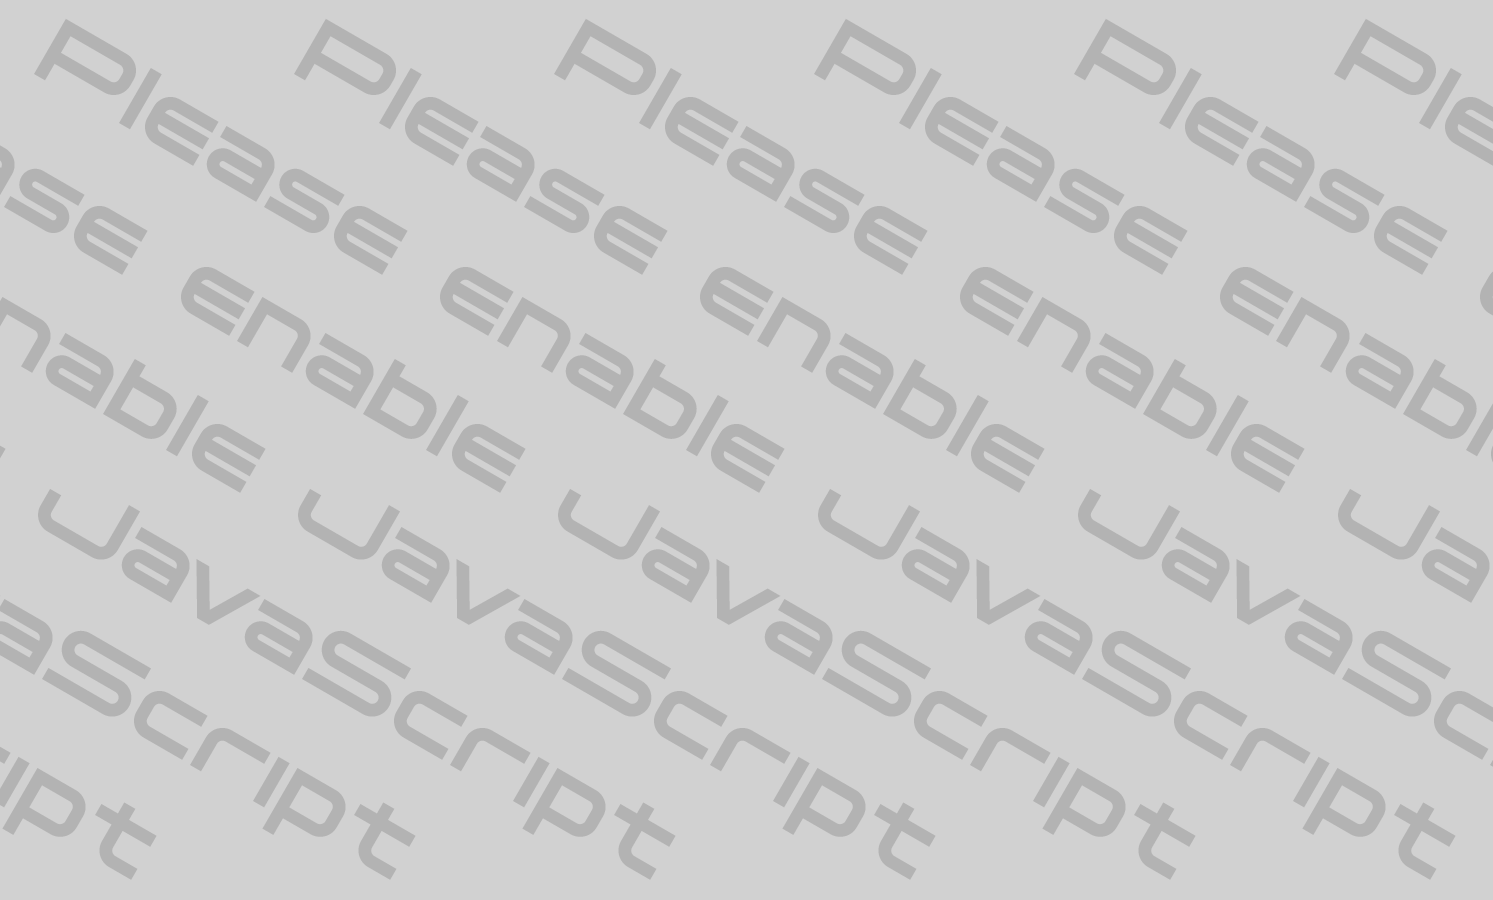
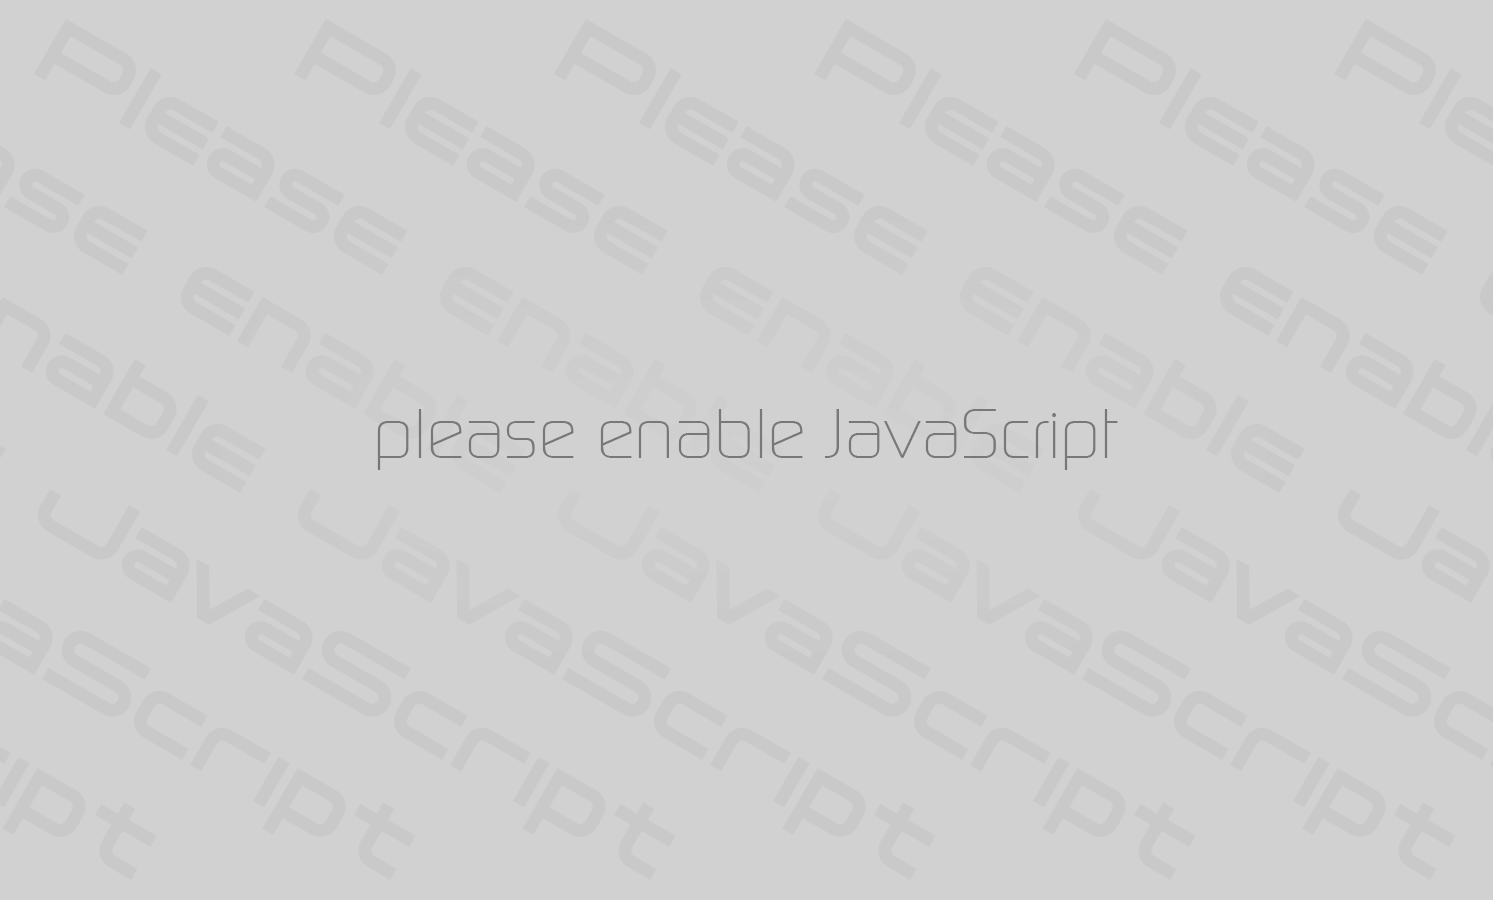
slight updates
-Removed periods from "B.S."
-Updated "Please enable javascript" slide image to be more explicit

diff --git a/index.html b/index.html
@@ -76,7 +76,7 @@
 				
 				<!-- Right side of header -->
 				<div id="headerR"><!-- Description -->
-					<span id="description">Drexel&nbsp;University Class&nbsp;of&nbsp;2019&nbsp;| B.S.&nbsp;Computer&nbsp;Science</span>
+					<span id="description">Drexel&nbsp;University Class&nbsp;of&nbsp;2019&nbsp;| BS&nbsp;Computer&nbsp;Science</span>
 				</div>
 				
 			</div>
